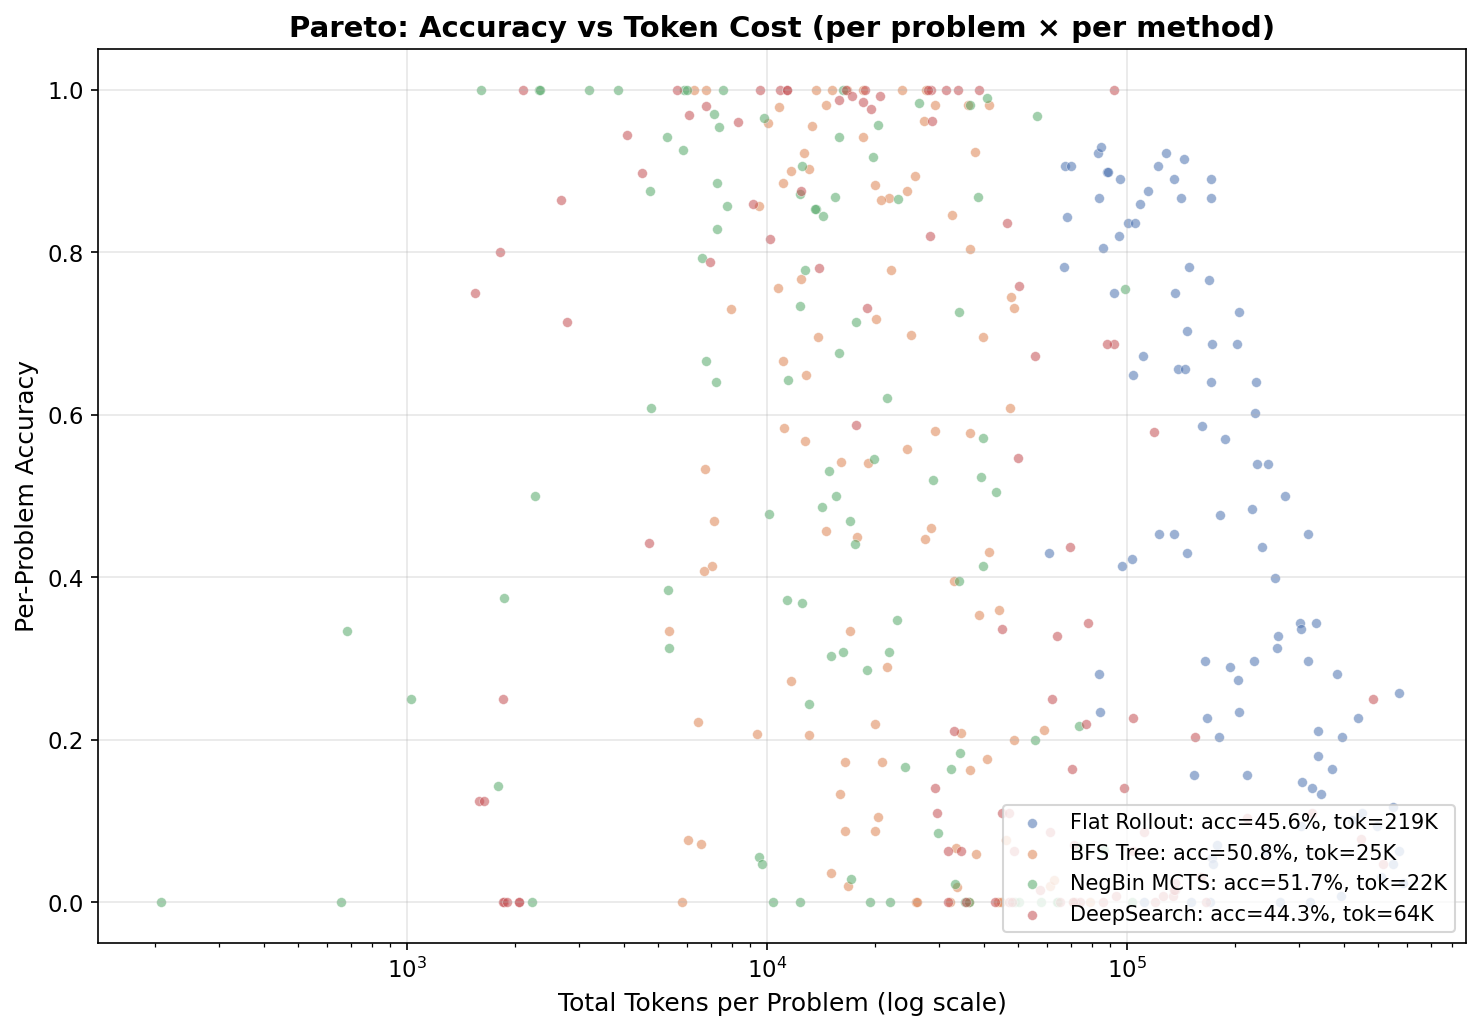
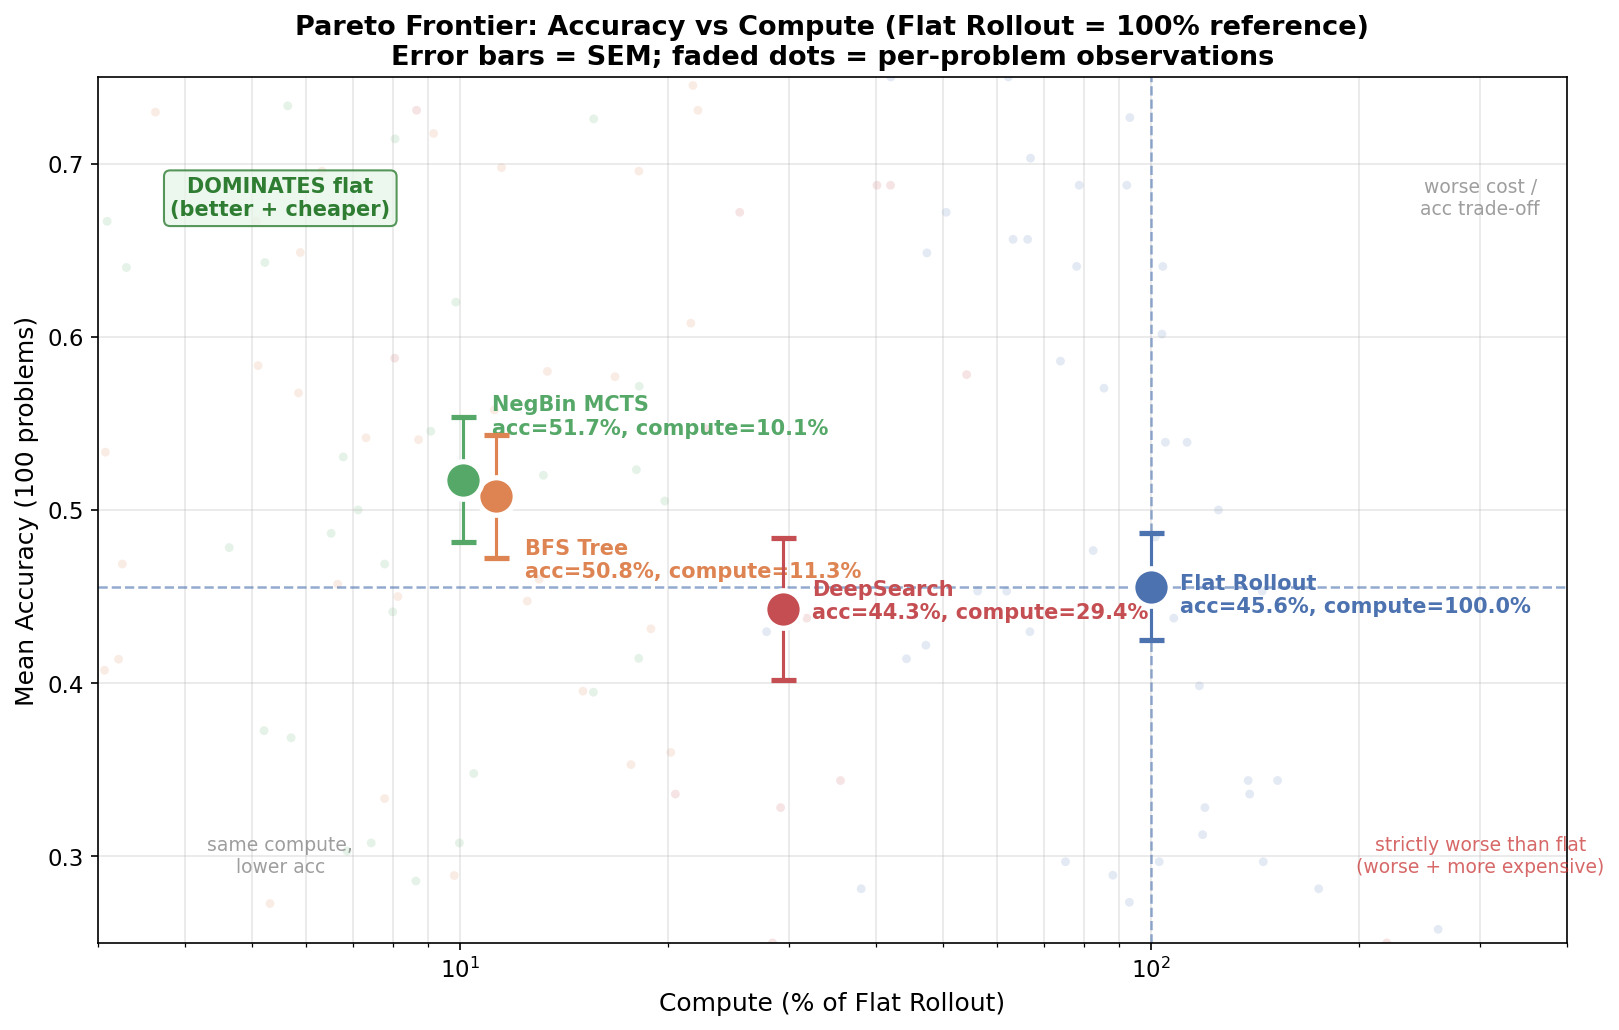
Reframe Pareto plot: Flat Rollout as the 100% compute reference
Replace the raw-token Pareto scatter with a "Flat Rollout is the
reference compute budget" framing. X axis is now compute as % of
Flat, Y axis is mean accuracy, and explicit quadrant labels show
"DOMINATES flat (better + cheaper)" for the BFS/NegBin corner.

Under this framing the paper's main claim becomes concrete:
  Flat       100.0% compute  45.6% acc   reference
  BFS         11.3% compute  50.8% acc   DOMINATES flat (−89% cost, +5pp)
  NegBin      10.1% compute  51.7% acc   DOMINATES flat (−90% cost, +6pp)
  DeepSearch  29.4% compute  44.3% acc   worse cost and worse accuracy
                                         than faithful methods

diff --git a/poisson_mcts/plot_advantage_comparison.py b/poisson_mcts/plot_advantage_comparison.py
@@ -491,30 +491,92 @@ def plot_summary_table(results, out_dir):
 
 
 # ---------------------------------------------------------------------
-# NEW Plot 9: Tokens vs accuracy Pareto
+# NEW Plot 9: Pareto with Flat Rollout as the compute reference
 # ---------------------------------------------------------------------
 def plot_pareto(results, out_dir):
-    """Per-problem scatter of (total_tokens, accuracy) for each method.
-    If a tree method is Pareto-dominated (lower accuracy AND more tokens
-    than a different method on the same problem), that's a side-effect."""
-    methods = active_methods(results)
-    fig, ax = plt.subplots(figsize=(10, 7))
+    """Pareto scatter with Flat Rollout as the compute reference.
 
+    X axis: compute as % of Flat Rollout compute (log scale, Flat = 100%)
+    Y axis: mean accuracy across 100 problems
+    Each point = one method; vertical/horizontal lines through Flat show
+    the "dominance quadrant" — any method upper-left of Flat is strictly
+    better (higher acc, lower compute).
+    """
+    methods = active_methods(results)
+    flat_tokens = get_tokens(results, "flat").mean()
+    flat_acc = get_accs(results, "flat").mean()
+
+    fig, ax = plt.subplots(figsize=(11, 7))
+
+    # Light per-problem scatter in the background (small alpha)
     for key, label, color, short, _ in methods:
         toks = get_tokens(results, key)
         accs = get_accs(results, key)
-        ax.scatter(toks, accs, s=22, alpha=0.55, color=color,
-                   label=f"{label}: acc={accs.mean():.1%}, tok={toks.mean()/1000:.0f}K",
-                   edgecolors="white", linewidths=0.3)
+        compute_pct = 100.0 * toks / flat_tokens
+        ax.scatter(compute_pct, accs, s=18, alpha=0.15, color=color,
+                   edgecolors="none")
+
+    # Main: mean point per method + error bars (per-problem std)
+    for key, label, color, short, _ in methods:
+        toks = get_tokens(results, key)
+        accs = get_accs(results, key)
+        compute_pct = 100.0 * toks / flat_tokens
+        mean_c = compute_pct.mean()
+        mean_a = accs.mean()
+        std_a = accs.std() / np.sqrt(len(accs))  # SEM
+
+        ax.errorbar(
+            mean_c, mean_a, yerr=std_a, fmt="o",
+            color=color, markersize=18, mew=2.5, capsize=6,
+            markerfacecolor=color, markeredgecolor="white",
+            ecolor=color, zorder=5,
+        )
+        # Annotate next to the point — manual offsets to avoid overlap
+        offset_map = {
+            "flat":         (14,  -4, "left",  "center"),
+            "bfs_tree":     (14,  -20, "left",  "top"),
+            "poisson_mcts": (14,  20, "left",  "bottom"),
+            "deepsearch":   (14,  4, "left",  "center"),
+        }
+        offset_x, offset_y, ha, va = offset_map.get(key, (8, 0, "left", "center"))
+        ax.annotate(
+            f"{label}\nacc={mean_a:.1%}, compute={mean_c:.1f}%",
+            xy=(mean_c, mean_a), xytext=(offset_x, offset_y),
+            textcoords="offset points", fontsize=10, ha=ha, va=va,
+            color=color, fontweight="bold",
+        )
+
+    # Reference lines through Flat
+    ax.axhline(flat_acc, color="#4C72B0", ls="--", lw=1.2, alpha=0.6)
+    ax.axvline(100.0, color="#4C72B0", ls="--", lw=1.2, alpha=0.6)
+
+    # Quadrant labels: upper-left = dominates flat; rest labels explain
+    ax.text(5.5, 0.68, "DOMINATES flat\n(better + cheaper)",
+            fontsize=10, ha="center", va="center",
+            color="#2E7D32", fontweight="bold",
+            bbox=dict(facecolor="#E8F5E9", edgecolor="#2E7D32",
+                      boxstyle="round,pad=0.3", alpha=0.8))
+    ax.text(5.5, 0.3, "same compute,\nlower acc",
+            fontsize=9, ha="center", va="center",
+            color="#757575", alpha=0.7)
+    ax.text(300, 0.68, "worse cost /\nacc trade-off",
+            fontsize=9, ha="center", va="center",
+            color="#757575", alpha=0.7)
+    ax.text(300, 0.3, "strictly worse than flat\n(worse + more expensive)",
+            fontsize=9, ha="center", va="center",
+            color="#C62828", alpha=0.7)
 
     ax.set_xscale("log")
-    ax.set_xlabel("Total Tokens per Problem (log scale)")
-    ax.set_ylabel("Per-Problem Accuracy")
-    ax.set_title("Pareto: Accuracy vs Token Cost (per problem × per method)",
-                 fontsize=14, fontweight="bold")
-    ax.grid(True, alpha=0.3)
-    ax.legend(fontsize=10, loc="lower right")
-    ax.set_ylim(-0.05, 1.05)
+    ax.set_xlabel("Compute (% of Flat Rollout)", fontsize=12)
+    ax.set_ylabel("Mean Accuracy (100 problems)", fontsize=12)
+    ax.set_title(
+        "Pareto Frontier: Accuracy vs Compute (Flat Rollout = 100% reference)\n"
+        "Error bars = SEM; faded dots = per-problem observations",
+        fontsize=13, fontweight="bold",
+    )
+    ax.grid(True, alpha=0.3, which="both")
+    ax.set_xlim(3, 400)
+    ax.set_ylim(0.25, 0.75)
     fig.tight_layout()
     fig.savefig(f"{out_dir}/pareto_accuracy_vs_tokens.png", bbox_inches="tight")
     plt.close(fig)
